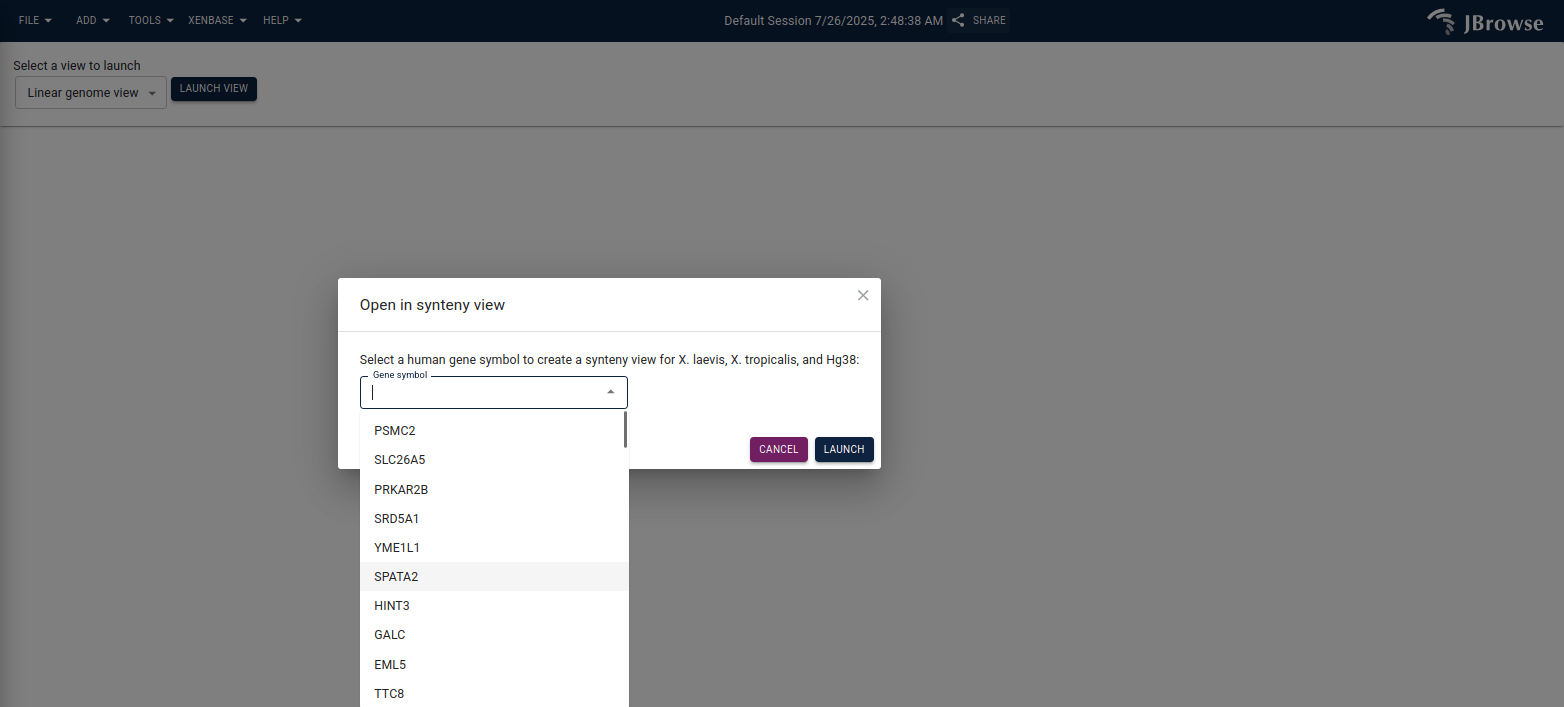
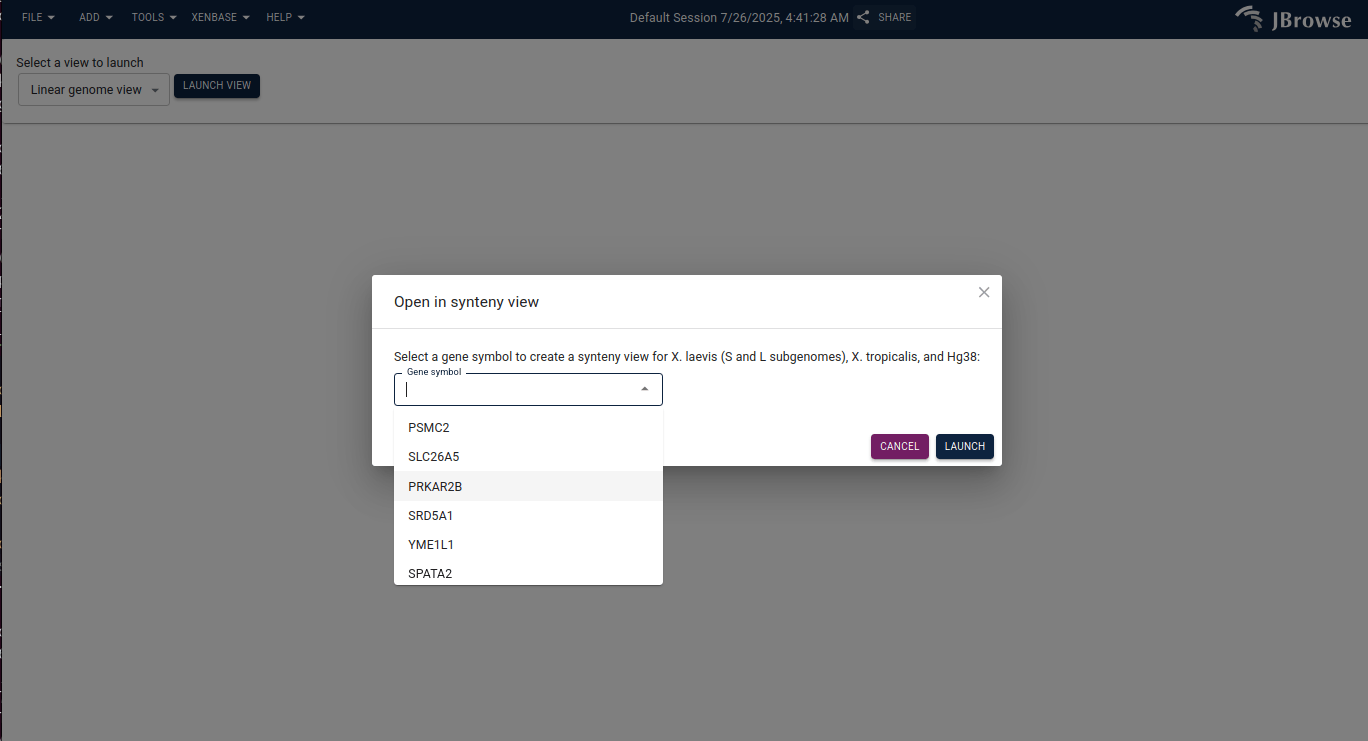
autocomplete

Changed region(s): [[0.2149, 0.3734, 0.7368, 1.0], [0.0, 0.0, 1.0, 0.1867]]

diff --git a/src/Dialog.tsx b/src/Dialog.tsx
@@ -1,4 +1,4 @@
-import React, { useEffect, useMemo, useState } from 'react'
+import React, { useCallback, useEffect, useMemo, useState } from 'react'
 import { Dialog, LoadingEllipses } from '@jbrowse/core/ui'
 import {
   Autocomplete,
@@ -88,6 +88,7 @@ export default function MyDialog({
 }) {
   const [rows, setRows] = useState<Row[]>()
   const [selectedGene, setSelectedGene] = useState<string>('')
+  const [inputValue, setInputValue] = useState<string>('')
   useEffect(() => {
     ;(async () => {
       const res = await textfetch(
@@ -104,20 +105,44 @@ export default function MyDialog({
     })()
   }, [])
 
-  const vals = useMemo(() => {
+  const allOptions = useMemo(() => {
     return rows
-      ? dedupe(rows, row => row.XLAL_symbol)
-          .map(r => ({
+      ? [
+          ...dedupe(rows, row => row.XLAL_symbol)
+            .map(r => ({
+              ...r,
+              label: r.Human_ortho_symbol,
+            }))
+            .filter(f => !!f.label),
+          ...dedupe(rows, row => row.XTR_symbol).map(r => ({
             ...r,
-            label: r.Human_ortho_symbol,
-          }))
-          .filter(f => !!f.label)
+            label: r.XTR_symbol,
+          })),
+          ...dedupe(rows, row => row.XTR_symbol).map(r => ({
+            ...r,
+            label: r.XLAL_symbol,
+          })),
+          ...dedupe(rows, row => row.XTR_symbol).map(r => ({
+            ...r,
+            label: r.XLAS_symbol,
+          })),
+        ].filter(f => !!f.label)
       : []
   }, [rows])
 
+  const filteredOptions = useMemo(() => {
+    if (!inputValue || inputValue.length < 1) {
+      return allOptions.slice(0, 100)
+    }
+    const searchTerm = inputValue.toLowerCase()
+    return allOptions
+      .filter(option => option.label.toLowerCase().includes(searchTerm))
+      .slice(0, 100)
+  }, [allOptions, inputValue])
+
   const selectedValue = useMemo(() => {
-    return vals.find(v => v.label === selectedGene) || null
-  }, [vals, selectedGene])
+    return allOptions.find(v => v.label === selectedGene) || null
+  }, [allOptions, selectedGene])
   return (
     <Dialog
       onClose={handleClose}
@@ -129,14 +154,21 @@ export default function MyDialog({
         {rows ? (
           <div>
             <Typography>
-              Select a human gene symbol to create a synteny view for X. laevis,
-              X. tropicalis, and Hg38:
+              Select a gene symbol to create a synteny view for X. laevis (S and
+              L subgenomes), X. tropicalis, and Hg38:
             </Typography>
             <Autocomplete
-              options={vals}
+              options={filteredOptions}
               value={selectedValue}
+              inputValue={inputValue}
+              onInputChange={(_, newInputValue) => setInputValue(newInputValue)}
               onChange={(_, newValue) => setSelectedGene(newValue?.label || '')}
               sx={{ width: 300 }}
+              ListboxProps={{
+                style: {
+                  maxHeight: '200px',
+                },
+              }}
               renderInput={params => (
                 <TextField {...params} variant="outlined" label="Gene symbol" />
               )}
@@ -176,7 +208,13 @@ export default function MyDialog({
         )}
       </DialogContent>
       <DialogActions>
-        <Button color="secondary" variant="contained">
+        <Button
+          color="secondary"
+          variant="contained"
+          onClick={() => {
+            handleClose()
+          }}
+        >
           Cancel
         </Button>
         <Button

diff --git a/README.md b/README.md
@@ -21,4 +21,8 @@ each "row", I just didn't have that set up
 I cloned various xenbase resources locally to make this, deploying on your
 server probably requires adding refNameAliases for hg38
 
+I had to do some hacky stuff to clone xenbase resources locally and partially
+since xenbase doens't have CORS enabled, so more integrations like synteny
+tracks are not here
+
 Hope this helps!
